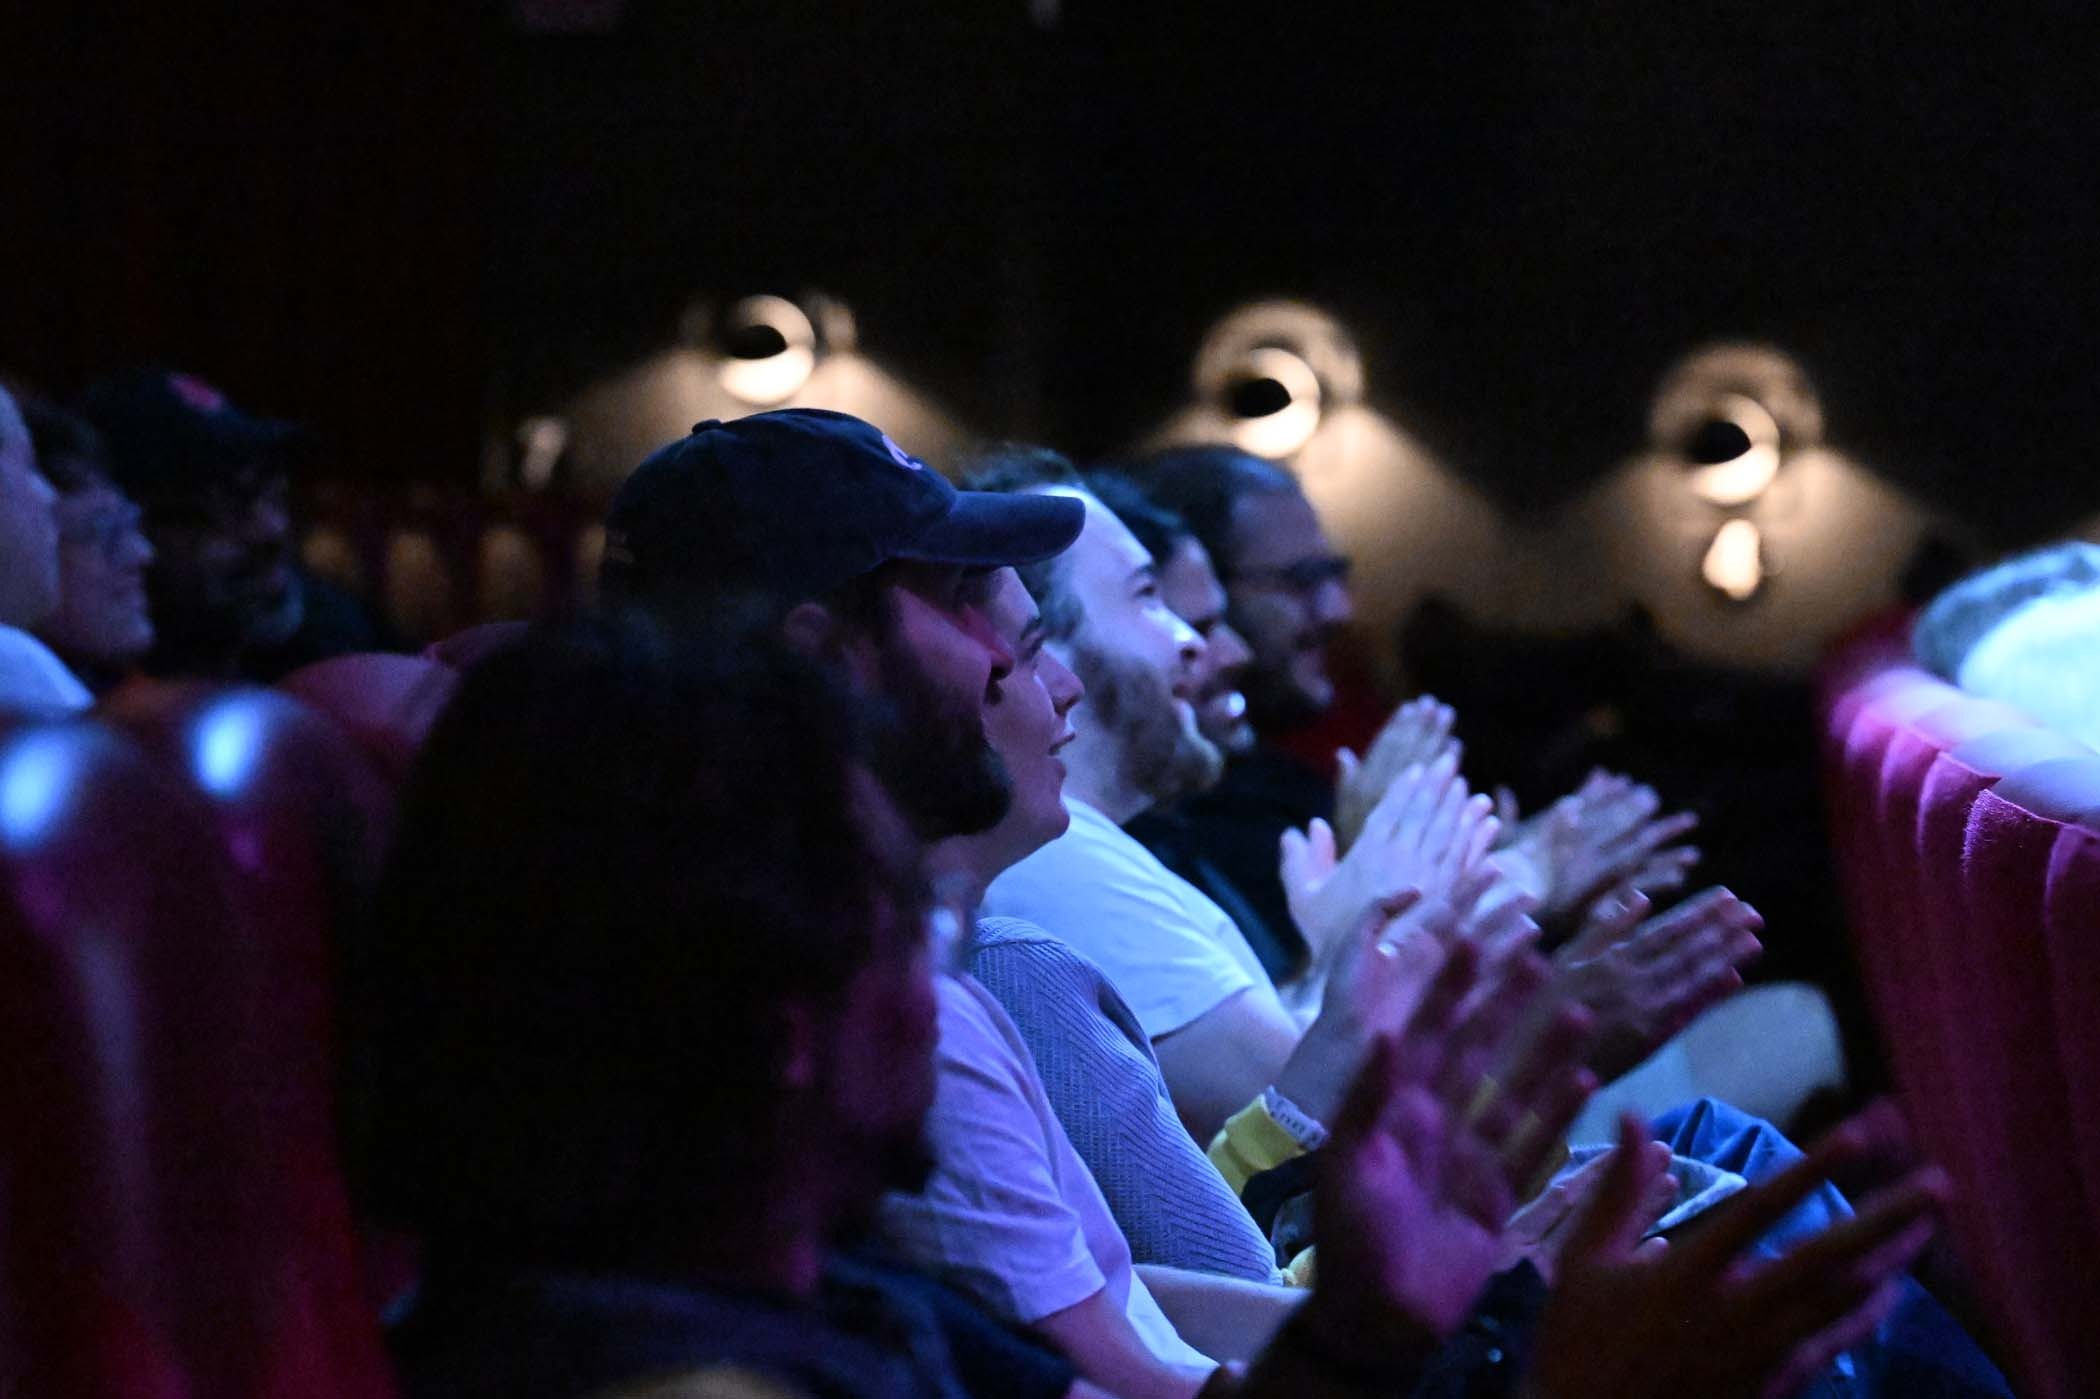
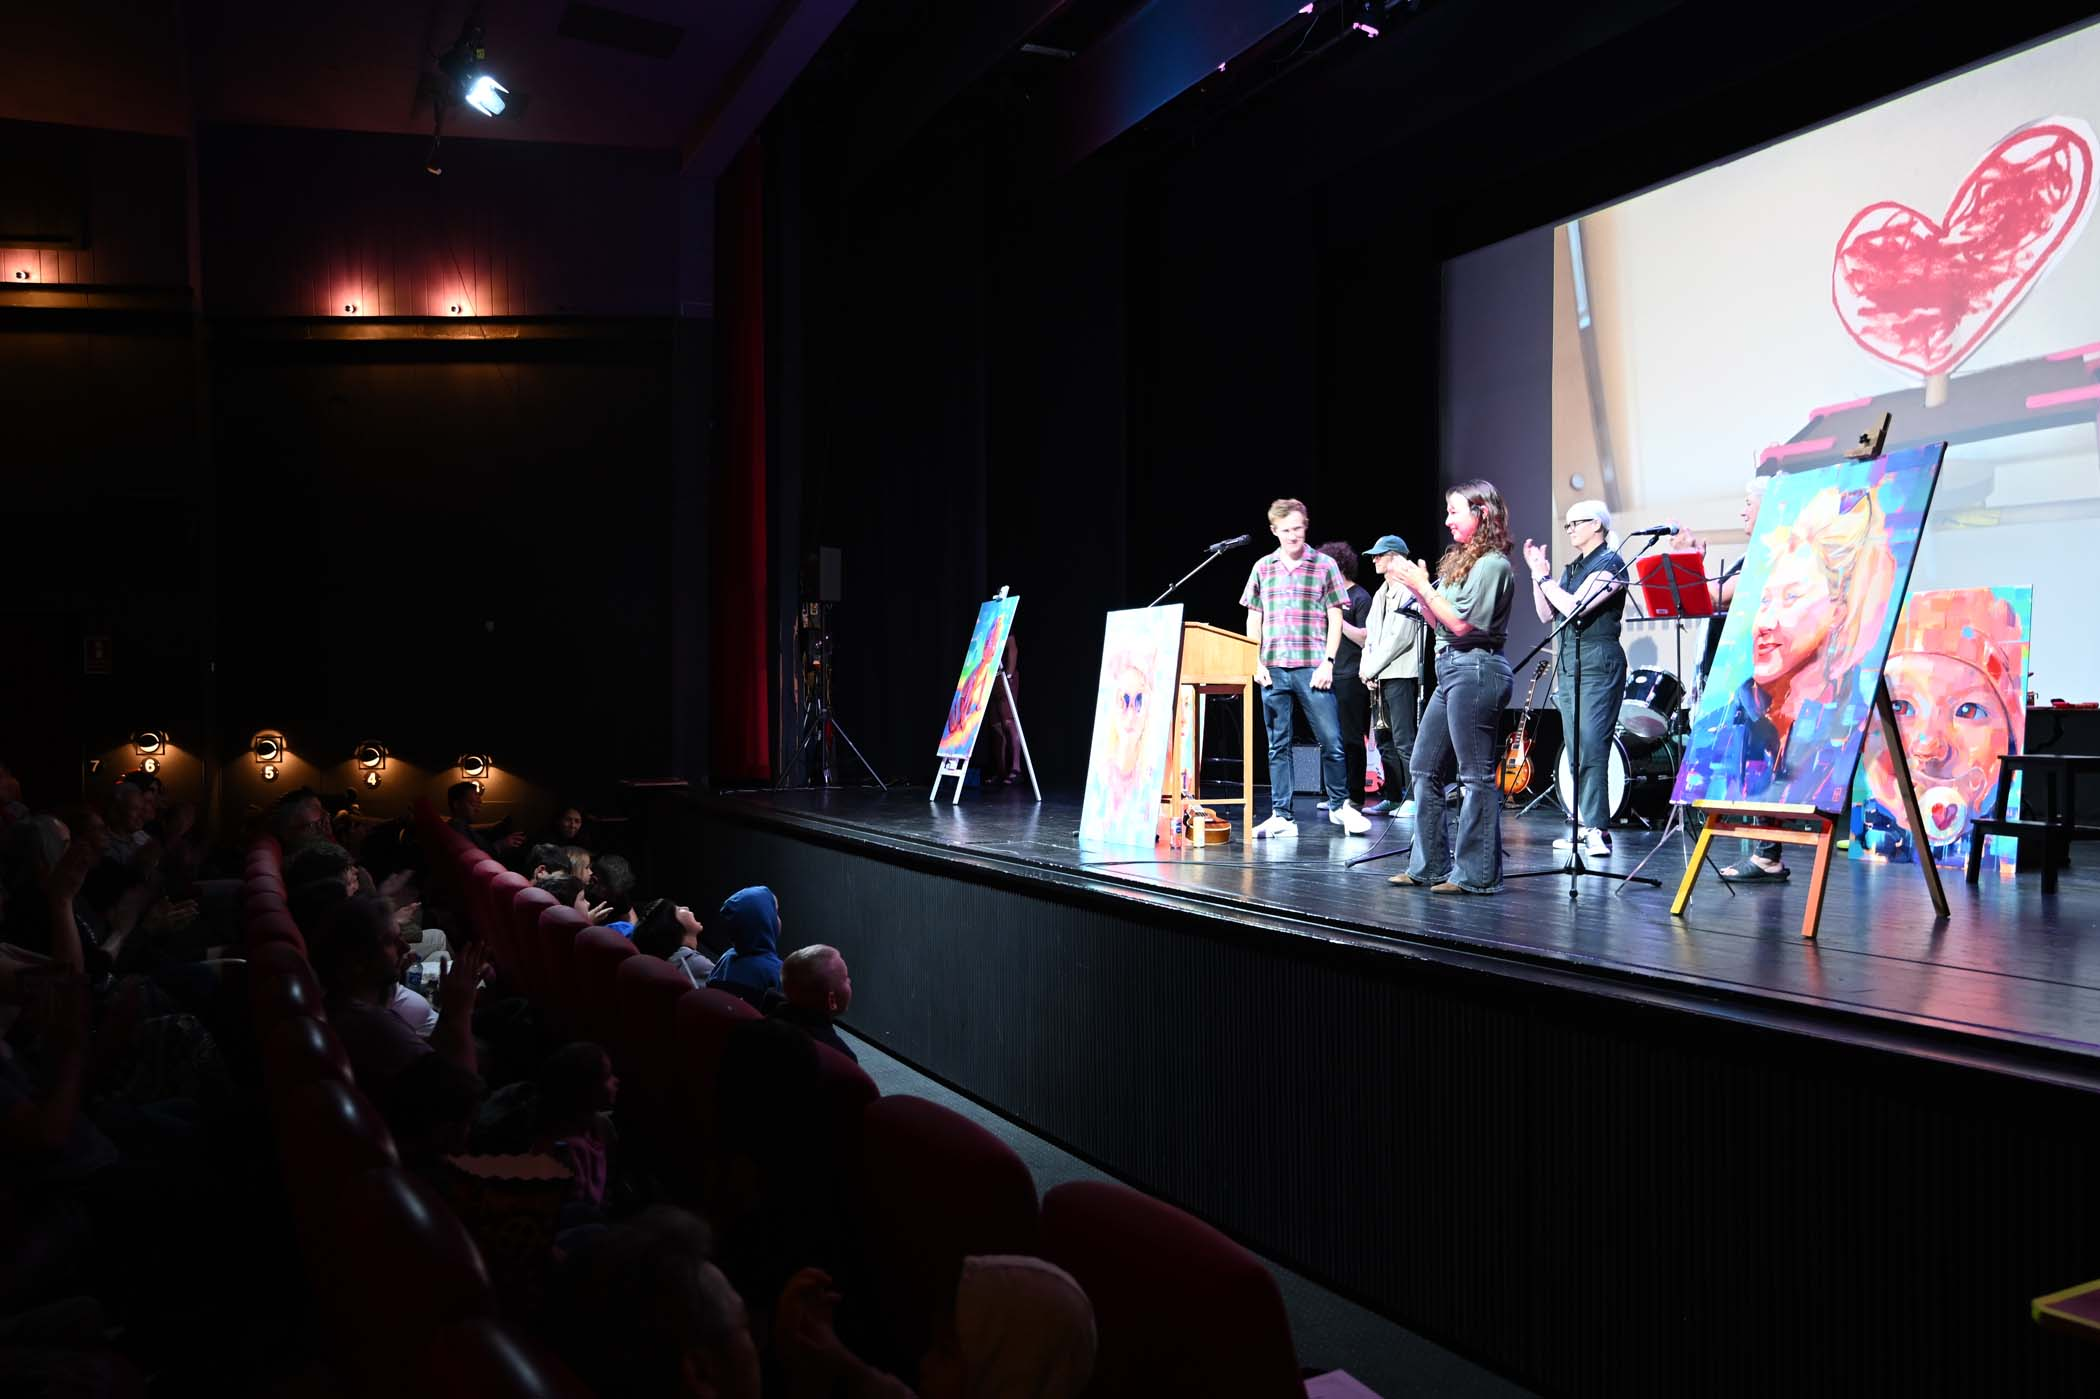
gallery

diff --git a/src/constant/slides.jsx b/src/constant/slides.jsx
@@ -96,14 +96,14 @@ export const slides = [
             cat: '2',
           },
           { src: iEve[`${prefix}02/35.jpg`].default,
-            title: 'Billund Improv Theatre Soc performance, Grindsted',
-            description: 'Teateroptræden',
-            alt: 'abc',
-            cat: '2',
+          title: 'Audience',
+          description: 'Publikum',
+          alt: 'abc',
+          cat: '2',
           },
           { src: iEve[`${prefix}02/36.jpg`].default,
-            title: 'Audience',
-            description: 'Publikum',
+            title: 'Billund Improv Theatre Soc performance, Grindsted',
+            description: 'Teateroptræden',
             alt: 'abc',
             cat: '2',
           },

diff --git a/dist/index.html b/dist/index.html
@@ -6,7 +6,7 @@
     <meta name="viewport" content="width=device-width, initial-scale=1.0" />
     <title>foto247
     </title>
-    <script type="module" crossorigin src="/assets/index--kwaSMh8.js"></script>
+    <script type="module" crossorigin src="/assets/index-Btw6e8Pd.js"></script>
     <link rel="stylesheet" crossorigin href="/assets/index-C66McaLK.css">
   </head>
   <body>
